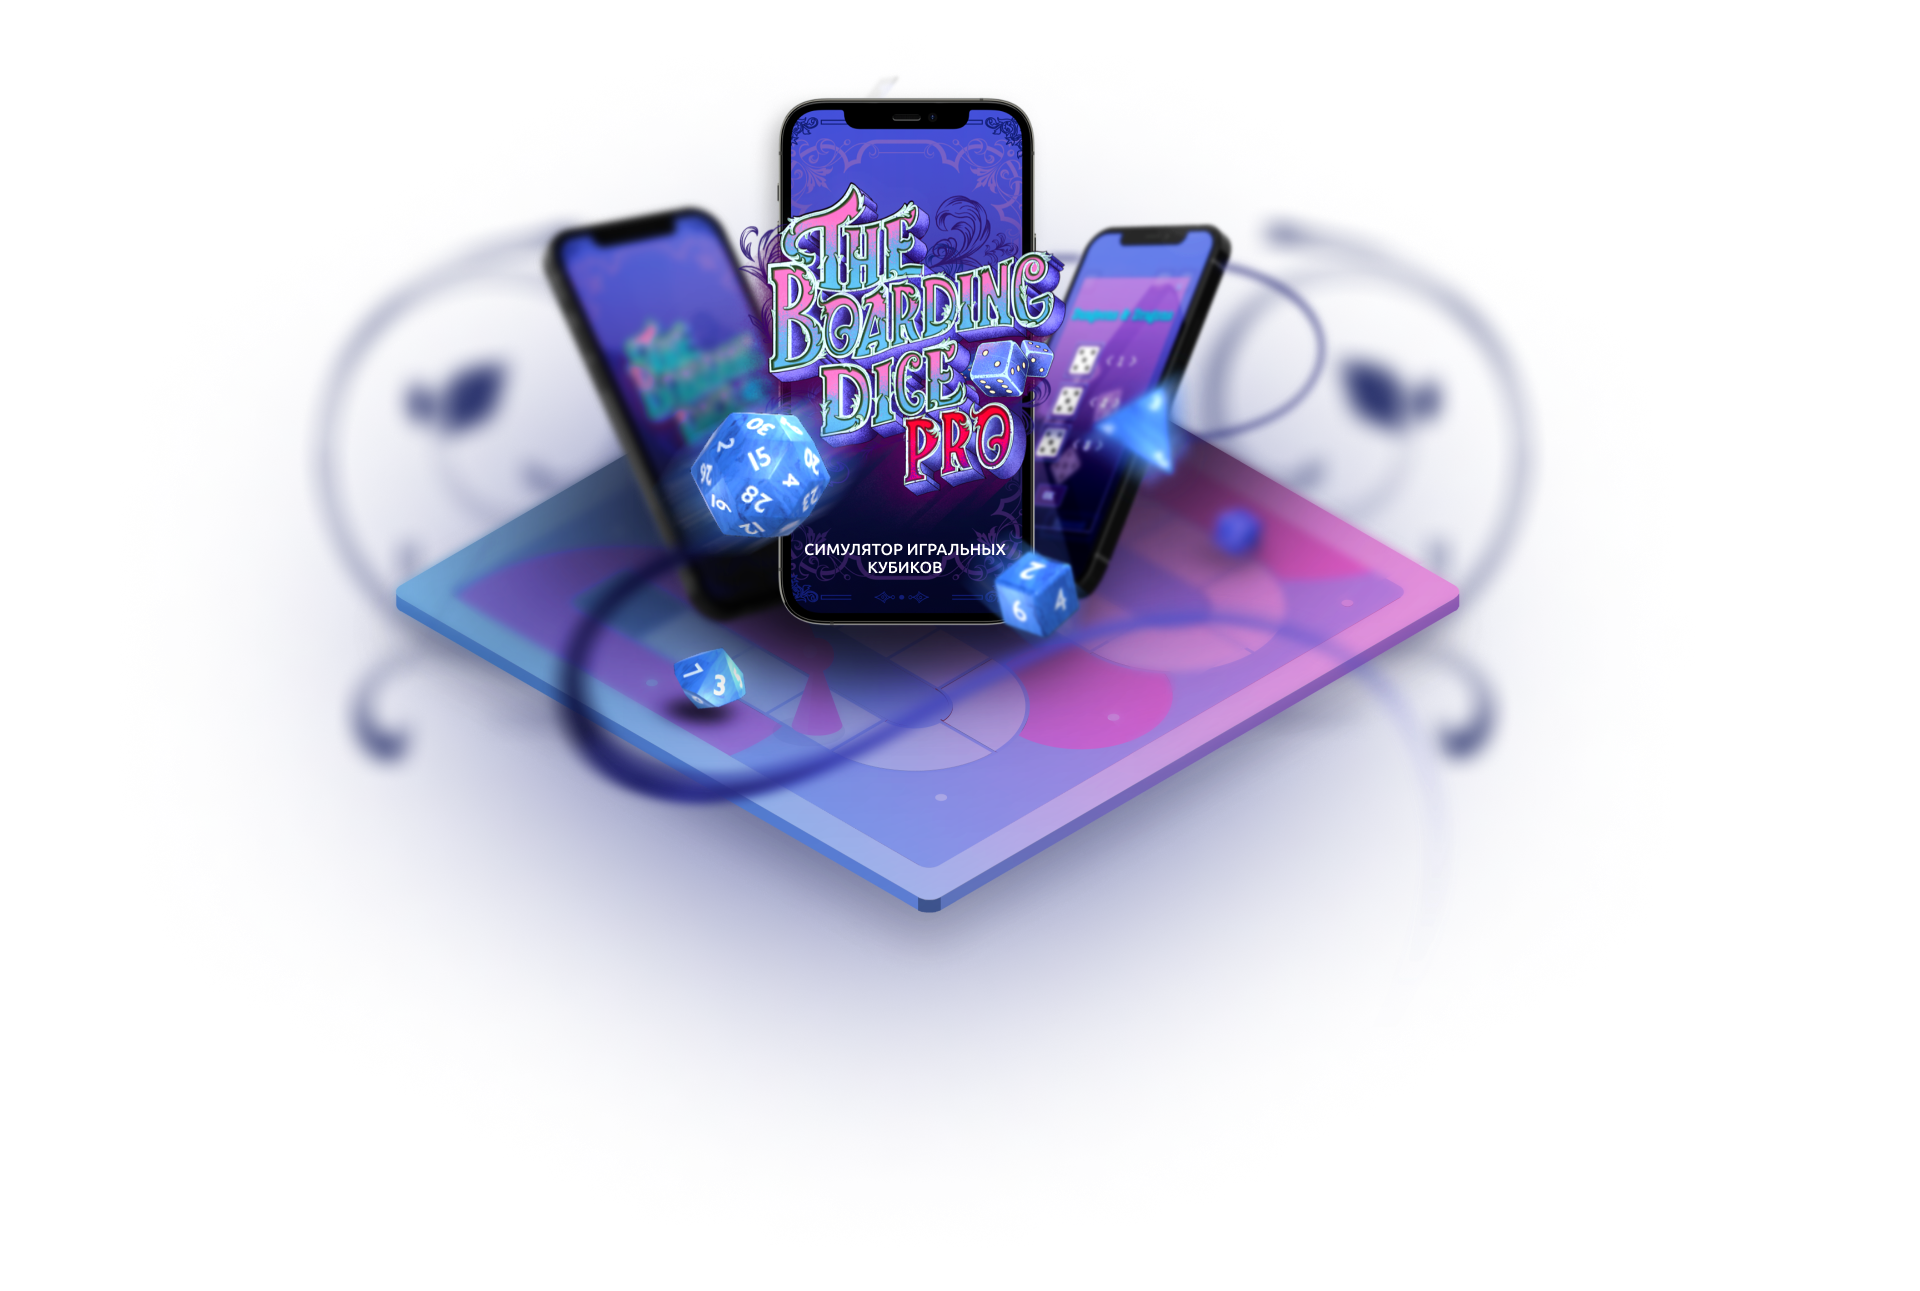
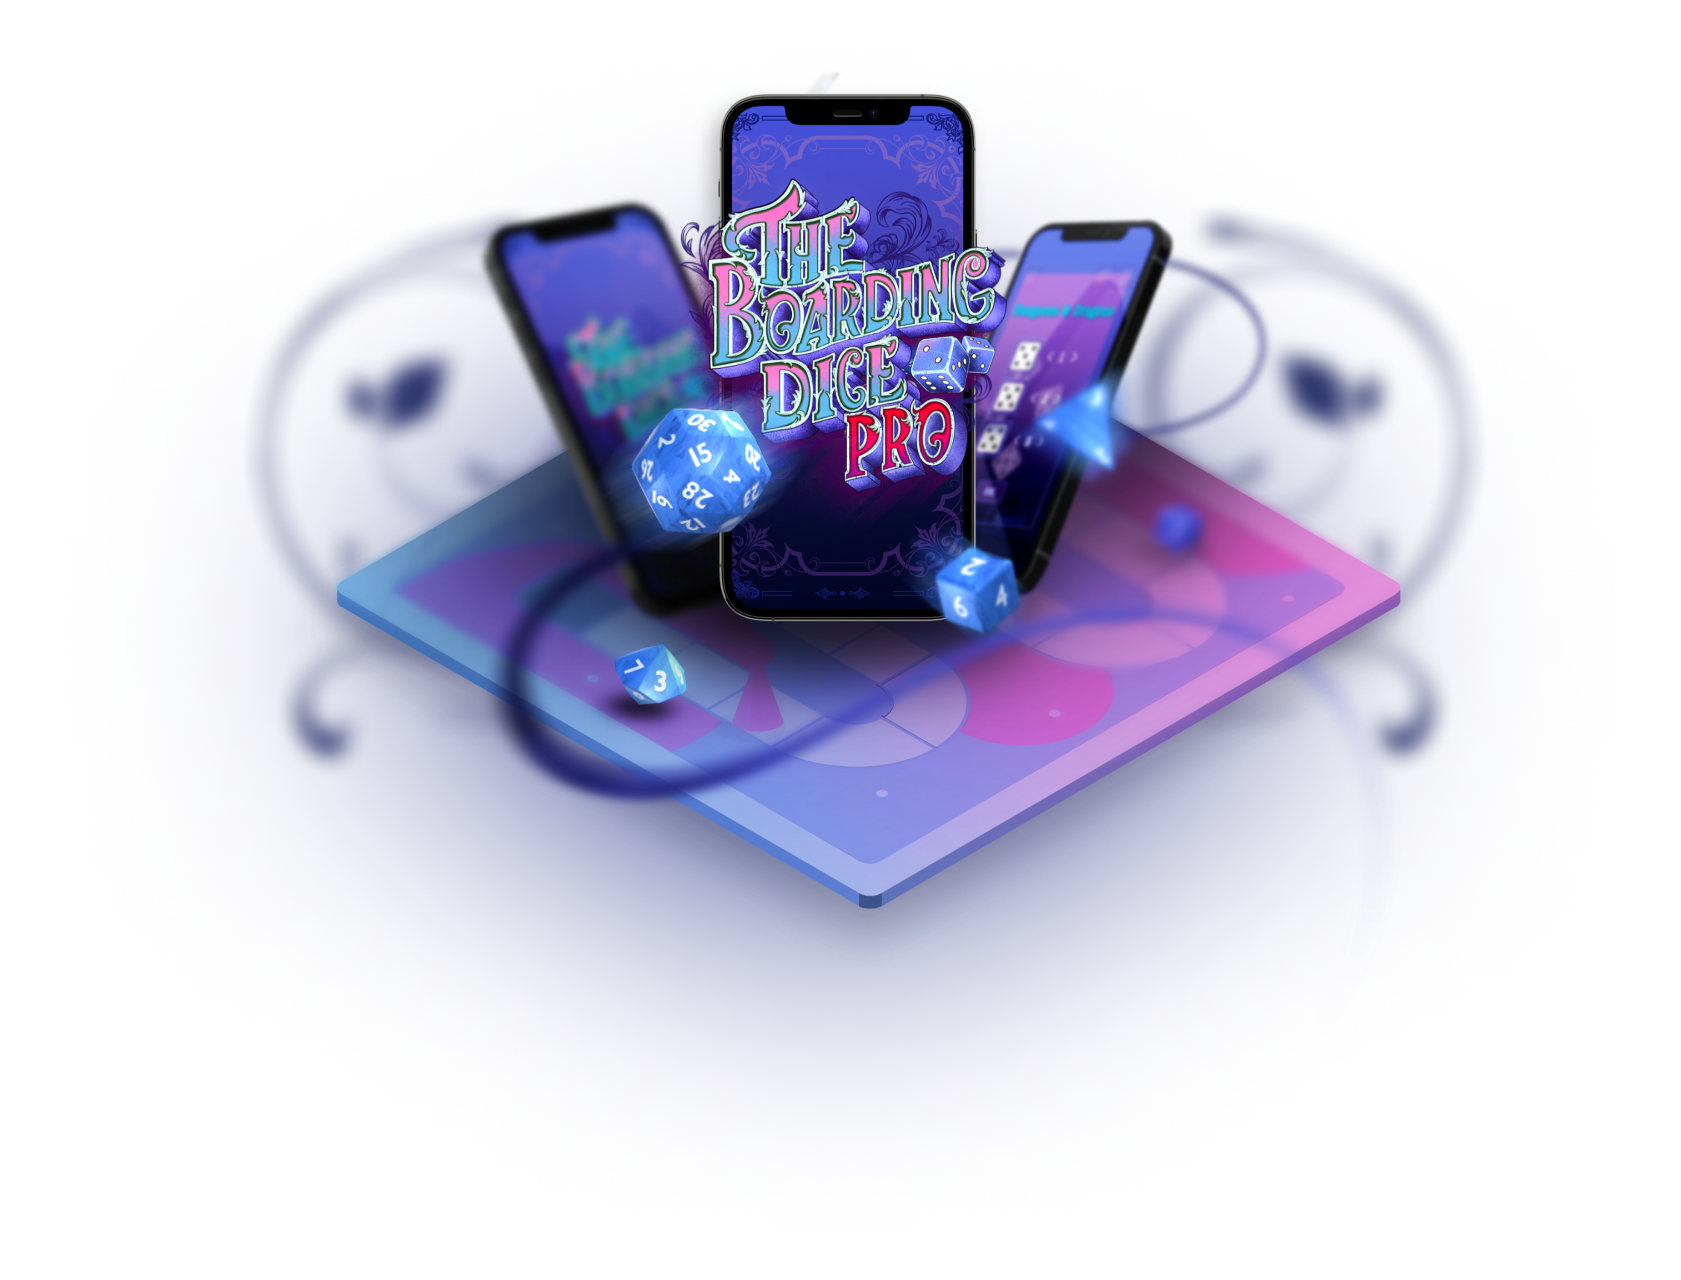
ads

diff --git a/docs/src/styles/main.css b/docs/src/styles/main.css
@@ -108,22 +108,38 @@ body {
 }
 
 .cubes-header {
-  position: relative;
   height: 42.1vw;
+  overflow: hidden;
+}
+.cubes-header__box {
+  position: relative;
+  width: 100%;
+  height: 100%;
 }
 .cubes-header__image {
   position: absolute;
   top: 0.4%;
-  right: 0;
+  left: 50%;
+  transform: translateX(-54%);
   bottom: 0;
-  left: 0;
+  z-index: 5;
+  max-width: 87.552vw;
+  width: 100%;
+}
+.cubes-header__heading {
+  font-size: 0.833vw;
+  color: #fff;
+  line-height: 0.938vw;
+  font-weight: 500;
+  font-family: "Ubuntu Medium";
+  width: 10.521vw;
+  text-align: center;
+  position: absolute;
+  bottom: 29%;
+  text-transform: uppercase;
+  transform: translateX(-80%);
+  left: 50%;
   z-index: 10;
-}
-.cubes-header__image_mini {
-  display: none;
-}
-.cubes-header__image_laptop {
-  display: none;
 }
 .cubes-header__cube {
   position: absolute;
@@ -665,11 +681,17 @@ body {
     height: 57.1vw;
   }
   .cubes-header__image {
-    display: none;
+    top: -2%;
+    left: 50%;
+    transform: translateX(-53%);
+    min-width: 117.839vw;
   }
-  .cubes-header__image_laptop {
-    display: block;
-    top: 0.1%;
+  .cubes-header__heading {
+    font-size: 2.083vw;
+    line-height: 2.344vw;
+    width: 28.516vw;
+    bottom: 6%;
+    transform: translateX(-56%);
   }
   .cubes-header__cube {
     position: absolute;
@@ -1021,14 +1043,17 @@ body {
     height: 69.1vw;
   }
   .cubes-header__image {
-    display: none;
+    top: -2%;
+    left: 50%;
+    transform: translateX(-52%);
+    min-width: 144.839vw;
   }
-  .cubes-header__image_mini {
-    display: block;
-    top: -86%;
-    right: -78%;
-    bottom: 0;
-    left: -82%;
+  .cubes-header__heading {
+    font-size: 4.375vw;
+    line-height: 5vw;
+    width: 57.188vw;
+    bottom: 0%;
+    transform: translateX(-49%);
   }
   .cubes-header__cube {
     display: none;

diff --git a/src/styles/main.scss b/src/styles/main.scss
@@ -105,21 +105,35 @@ body {
 }
 
 .cubes-header {
-  position: relative;
   height: 42.1vw;
+  overflow: hidden;
+  &__box {
+    position: relative;
+    width: 100%;
+    height: 100%;
+  }
   &__image {
     position: absolute;
     top: 0.4%;
-    right: 0;
+    left: 50%;
+    transform: translateX(-54%);
     bottom: 0;
-    left: 0;
+    z-index: 5;
+    max-width: 87.552vw;
+    width: 100%;
+  }
+  &__heading {
+    @include font(#fff, 0.833vw, 0.938vw, 500, "Ubuntu Medium");
+
+    width: 10.521vw;
+    text-align: center;
+
+    position: absolute;
+    bottom: 29%;
+    text-transform: uppercase;
+    transform: translateX(-80%);
+    left: 50%;
     z-index: 10;
-    &_mini {
-      display: none;
-    }
-    &_laptop {
-      display: none;
-    }
   }
 
   &__cube {
@@ -678,11 +692,19 @@ body {
   .cubes-header {
     height: 57.1vw;
     &__image {
-      display: none;
-      &_laptop {
-        display: block;
-        top: 0.1%;
-      }
+      top: -2%;
+      left: 50%;
+      transform: translateX(-53%);
+      min-width: 117.839vw;
+    }
+    &__heading {
+      font-size: 2.083vw;
+      line-height: 2.344vw;
+
+      width: 28.516vw ;
+
+      bottom: 6%;
+      transform: translateX(-56%);
     }
 
     &__cube {
@@ -1071,14 +1093,19 @@ body {
   .cubes-header {
     height: 69.1vw;
     &__image {
-      display: none;
-      &_mini {
-        display: block;
-        top: -86%;
-        right: -78%;
-        bottom: 0;
-        left: -82%;
-      }
+      top: -2%;
+      left: 50%;
+      transform: translateX(-52%);
+      min-width: 144.839vw;
+    }
+    &__heading {
+      font-size: 4.375vw;
+      line-height: 5vw;
+
+      width: 57.188vw;
+
+      bottom: 0%;
+      transform: translateX(-49%);
     }
     &__cube {
       display: none;

diff --git a/docs/index.html b/docs/index.html
@@ -13,14 +13,13 @@
 <body>
     <div class="cubes-wrapper">
         <header class="cubes-header">
-            <div class="cubes-header__image cubes-img_box">
-                <img src="./src/assets/images/png/HeaderImage.png" alt="preview">
-            </div>
-            <div class="cubes-header__image cubes-header__image_mini cubes-img_box">
-                <img src="./src/assets/images/png/mini/HeaderImage.png" alt="preview">
-            </div>
-            <div class="cubes-header__image cubes-header__image_laptop cubes-img_box">
-                <img src="./src/assets/images/png/laptop/HeaderImage.png" alt="preview">
+            <div class="cubes-header__box">
+                <div class="cubes-header__image cubes-img_box">
+                    <img src="./src/assets/images/png/HeaderImage.png" alt="preview">
+                </div>
+                <div class="cubes-header__heading">
+                    Симулятор игральных кубиков
+                </div>
             </div>
 
             <div class="cubes-header__cube cubes-header__cube_left cubes-img_box translateOnMouseMove"

diff --git a/src/index.html b/src/index.html
@@ -13,14 +13,13 @@
 <body>
     <div class="cubes-wrapper">
         <header class="cubes-header">
-            <div class="cubes-header__image cubes-img_box">
-                <img src="./src/assets/images/png/HeaderImage.png" alt="preview">
-            </div>
-            <div class="cubes-header__image cubes-header__image_mini cubes-img_box">
-                <img src="./src/assets/images/png/mini/HeaderImage.png" alt="preview">
-            </div>
-            <div class="cubes-header__image cubes-header__image_laptop cubes-img_box">
-                <img src="./src/assets/images/png/laptop/HeaderImage.png" alt="preview">
+            <div class="cubes-header__box">
+                <div class="cubes-header__image cubes-img_box">
+                    <img src="./src/assets/images/png/HeaderImage.png" alt="preview">
+                </div>
+                <div class="cubes-header__heading">
+                    Симулятор игральных кубиков
+                </div>
             </div>
 
             <div class="cubes-header__cube cubes-header__cube_left cubes-img_box translateOnMouseMove"

diff --git a/docs/src/scripts/main.js b/docs/src/scripts/main.js
@@ -7,12 +7,10 @@ window.addEventListener('mousemove', function (e) {
     let windowWidth = window.innerWidth / 2;
     let windowHeight = window.innerHeight / 2;
 
-    if(windowWidth >= 960) {
-        translateBlock.forEach(function(item) {
-            let translateSpeed = item.getAttribute('data-animateSpeed')
-            item.style.transform = `translate( ${ (windowWidth - x) / translateSpeed}px, ${( windowHeight - y ) / translateSpeed}px)`
-        });
-    }
+    translateBlock.forEach(function(item) {
+        let translateSpeed = item.getAttribute('data-animateSpeed')
+        item.style.transform = `translate( ${ (windowWidth - x) / translateSpeed}px, ${( windowHeight - y ) / translateSpeed}px)`
+    });
 })
 
 // colors animate by scroll

diff --git a/src/scripts/main.js b/src/scripts/main.js
@@ -7,12 +7,10 @@ window.addEventListener('mousemove', function (e) {
     let windowWidth = window.innerWidth / 2;
     let windowHeight = window.innerHeight / 2;
 
-    if(windowWidth >= 960) {
-        translateBlock.forEach(function(item) {
-            let translateSpeed = item.getAttribute('data-animateSpeed')
-            item.style.transform = `translate( ${ (windowWidth - x) / translateSpeed}px, ${( windowHeight - y ) / translateSpeed}px)`
-        });
-    }
+    translateBlock.forEach(function(item) {
+        let translateSpeed = item.getAttribute('data-animateSpeed')
+        item.style.transform = `translate( ${ (windowWidth - x) / translateSpeed}px, ${( windowHeight - y ) / translateSpeed}px)`
+    });
 })
 
 // colors animate by scroll
